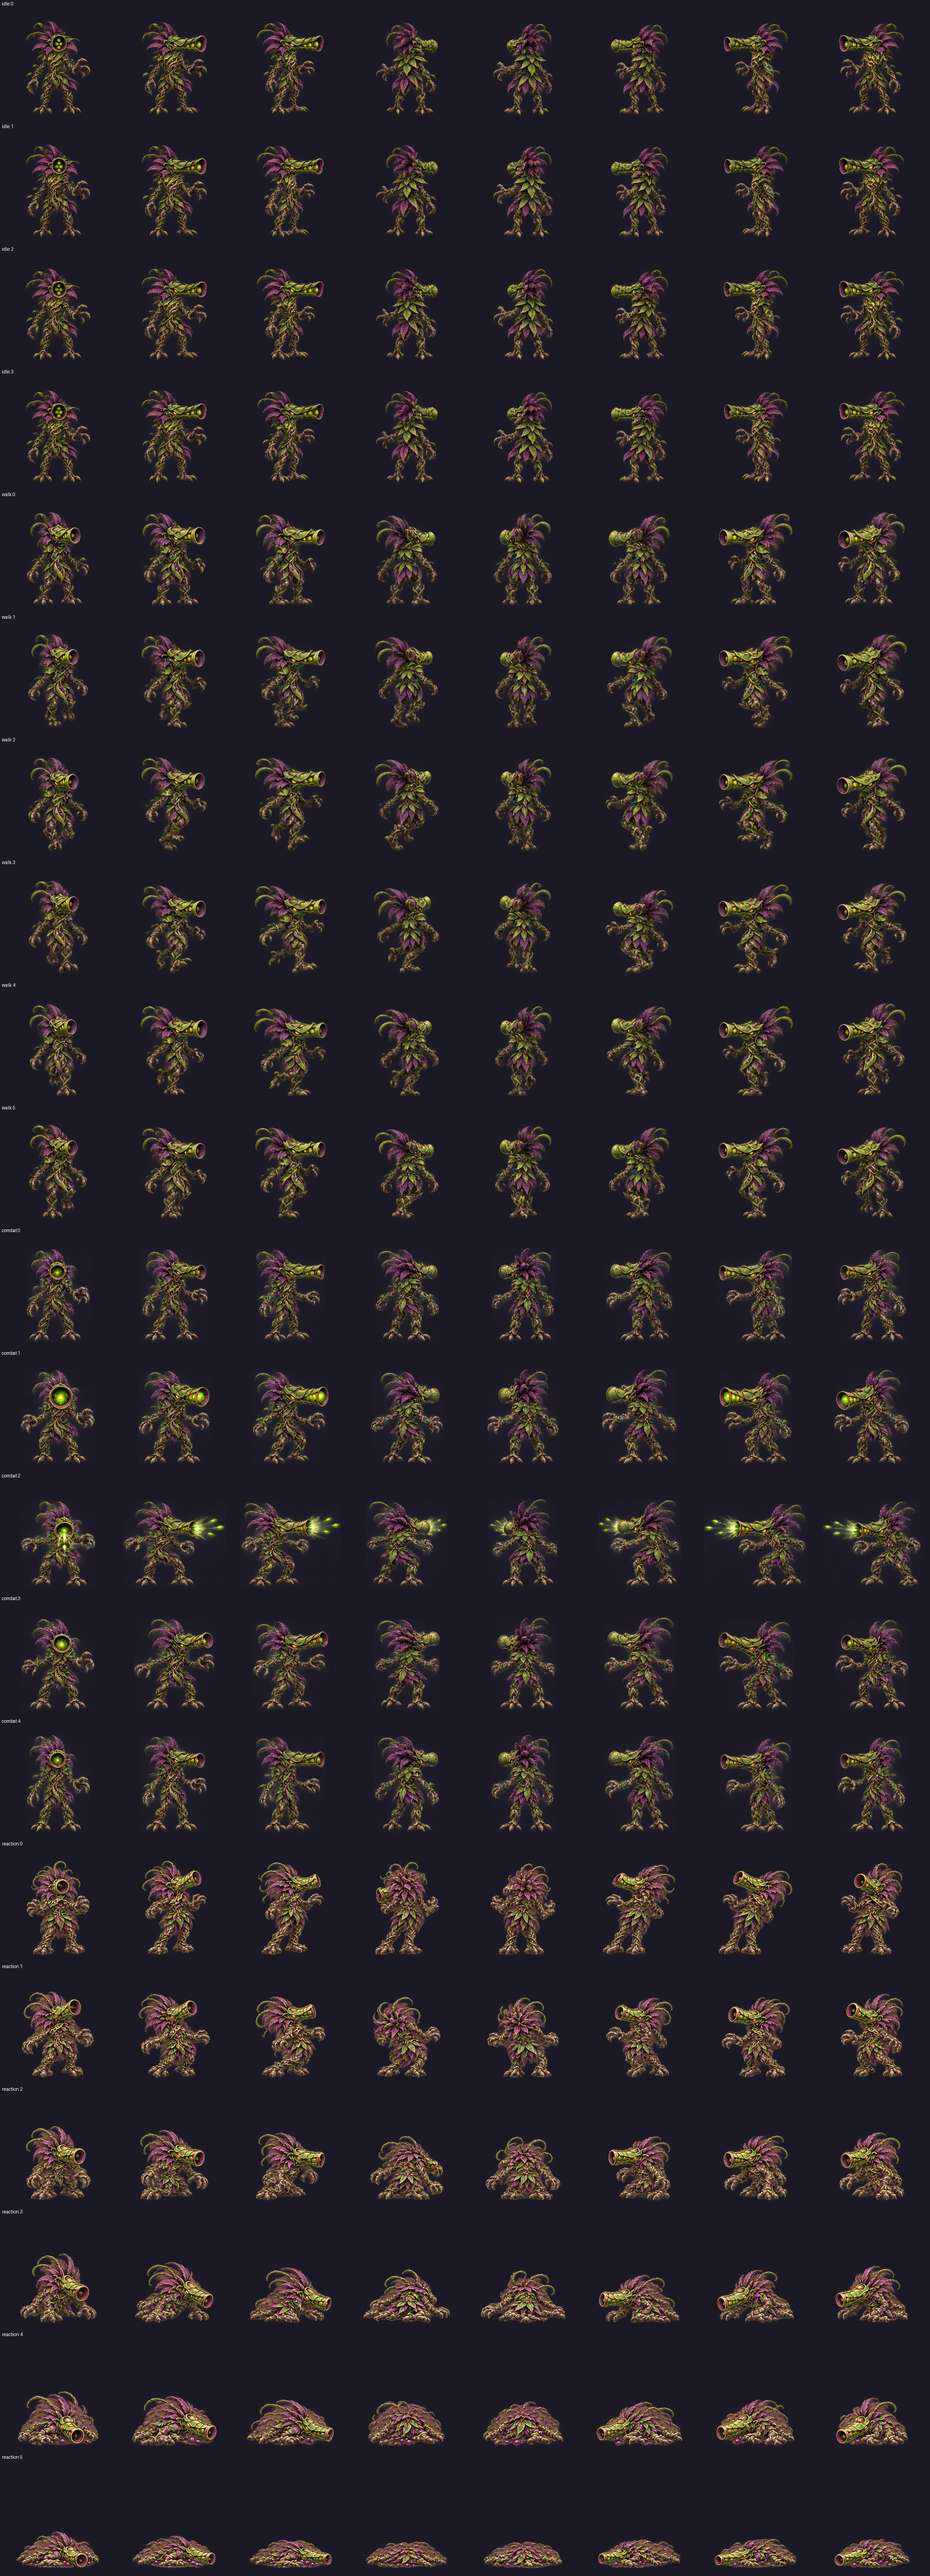
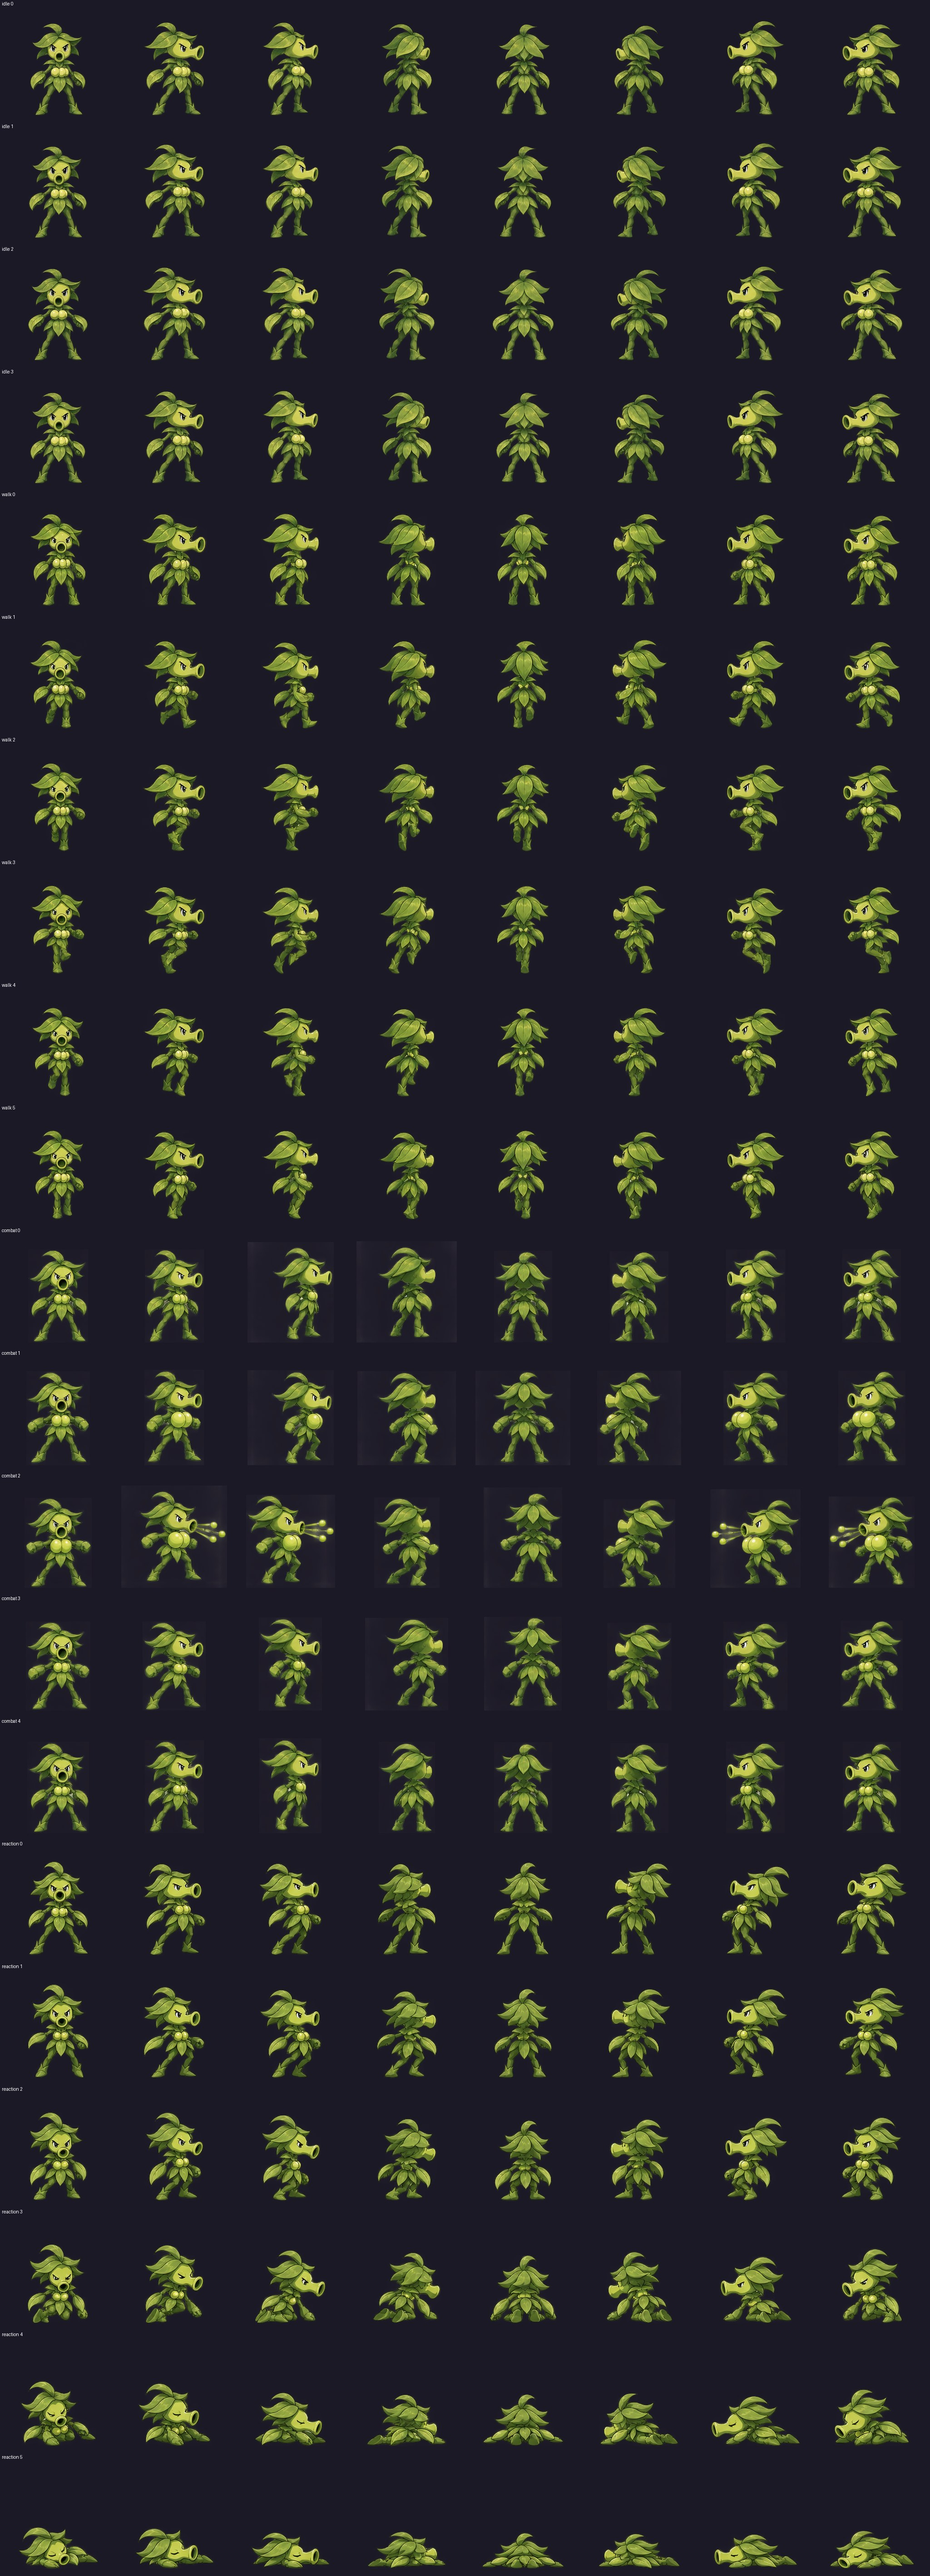
Refine sporecap and seed gunner with clean expressive forest designs

diff --git a/spellduel-unity/Docs/forest_2d_preview/README.md b/spellduel-unity/Docs/forest_2d_preview/README.md
@@ -36,3 +36,6 @@ roster_grid.jpg 為三排全員總覽，每隻有 directions.jpg、all_frames.jp
 
 
 2026-11-04 中等細節新風格：毒液噴花、荊棘衝鋒獸、藤蔓術士、食人花 已換新，累計 4/18。使用者已確認 concepts_01.png 的比例與細節程度。
+
+
+2026-11-04 中等細節新風格：孢子菇、種子槍手 已換新，累計 6/18。使用者已確認 concepts_01.png 的比例與細節程度。
